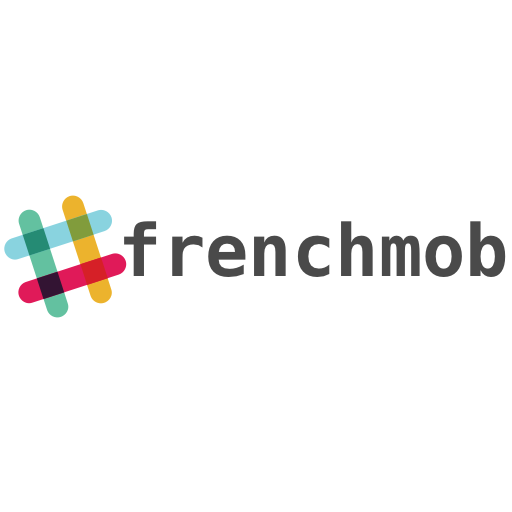
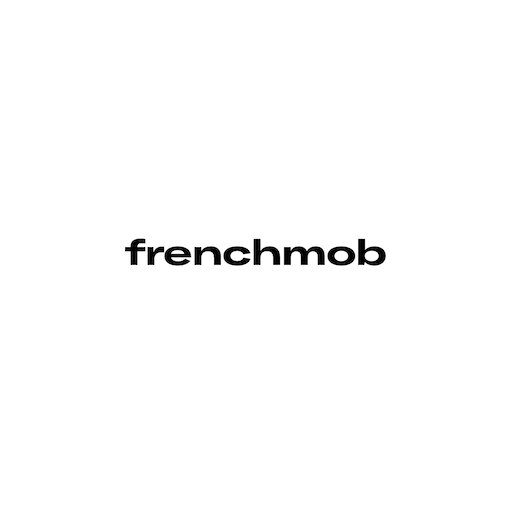
Branding

Changed region(s): [[0.0, 0.375, 1.0, 0.625]]

diff --git a/index.html b/index.html
@@ -1,23 +1,23 @@
 <!doctype html>
 <html lang="fr">
 <head>
-  <title>frenchmob - la slack team pour les frenchies qui geek dans le mobile</title>
+  <title>Frenchmob - agence mobile iOS, macOS, watchOS</title>
   <meta charset="text/html; charset=UTF-8">
   <meta name="viewport" content="width=device-width, initial-scale=1">
   <link href="iTunesArtwork.png" rel="shortcut icon" type="image/x-icon">
-  <meta name="description" content="Une team slack pour échanger, en direct ou en groupe — slack quoi — réservée uniquement aux tech qui bossent sur au moins une appli mobile Android ou iOS. Seuls pré-requis pour rentrer dans cette team privée, aller sur frenchmob.fr">
-  <meta name="keywords" content="frenchmob,geek,mobile,app,appli,iOS,swift,Android,java,API,france,french,mob,groupe slack,slack,channel">
+  <meta name="description" content="frenchmob - agence mobile iOS, iPhone, iPad, Apple Watch, Apple TV - freelance Swift">
+  <meta name="keywords" content="frenchmob,geek,mobile,app,appli,iOS,swift,france,french,mob,iOS,iPhone,iPad,Apple TV, Apple Watch">
   <!-- Facebook -->
   <meta property="og:site_name" content="frenchmob">
-  <meta property="og:title" content="Devenez membre de la team Slack Frenchmob">
-  <meta property="og:description" content="frenchmob - agence mobile iOS, iPhone, iPad, Apple Watch, Apple TV">
+  <meta property="og:title" content="Frenchmob">
+  <meta property="og:description" content="Frenchmob - agence mobile iOS, iPhone, iPad, Apple Watch, Apple TV - freelance Swift - Guillaume Marolleau">
   <meta property="og:url" content="http://www.frenchmob.fr">
   <meta property="og:image" content="http://www.frenchmob.fr/iTunesArtwork.png">
   <meta property="og:type" content="website">
   <!-- Twitter -->
   <meta name="twitter:card" content="summary_large_image">
-  <meta name="twitter:title" content="Devenez membre de la team Slack Frenchmob"">
-  <meta name="twitter:description" content="frenchmob - agence mobile iOS, iPhone, iPad, Apple Watch, Apple TV">
+  <meta name="twitter:title" content="Frenchmob"">
+  <meta name="twitter:description" content="Frenchmob - agence mobile iOS, iPhone, iPad, Apple Watch, Apple TV - freelance Swift - Guillaume Marolleau">
   <meta name="twitter:image" content="http://www.frenchmob.fr/iTunesArtwork.png">
   <meta name="twitter:domain" content="http://www.frenchmob.fr">
   <style>
@@ -39,13 +39,25 @@
         padding:8px;
       }
     }
+    div#boards{
+      padding-bottom: 88px;
+    }
   </style>
 </head>
-<body>
-  <div id="cta" style="text-align: center; cursor: pointer;">
-    <img src="./lp4.png" />
-    <div><br /><br /><br /><br /><br /><br /></div>
-    <img width="60%" src="./frenchmobAppsBoard.png" />
+<body style="text-align: center; cursor: pointer;">
+  <div class="panel panel-default">
+    <div class="panel-body">
+      <div id="cta" style="text-align: center; cursor: pointer;">
+        <img src="./lp4.png" />
+      </div>
+    </div>
+  </div>
+  <div class="panel panel-default">
+    <div class="panel-body">
+      <div id="boards">
+        <img width="50%" class="img-responsive" src="./frenchmobAppsBoard.png" />
+      </div>
+    </div>
   </div>
   <!-- et ouais, uniquement un png pour m'éviter d'être spammé ;-) -->
   <!-- et un peu de GA histoire de regarder qq graphes à la pause café -->
